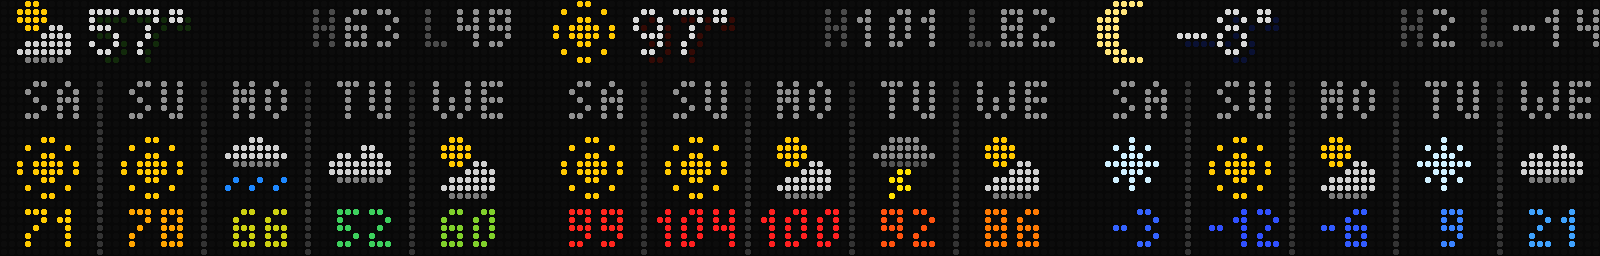
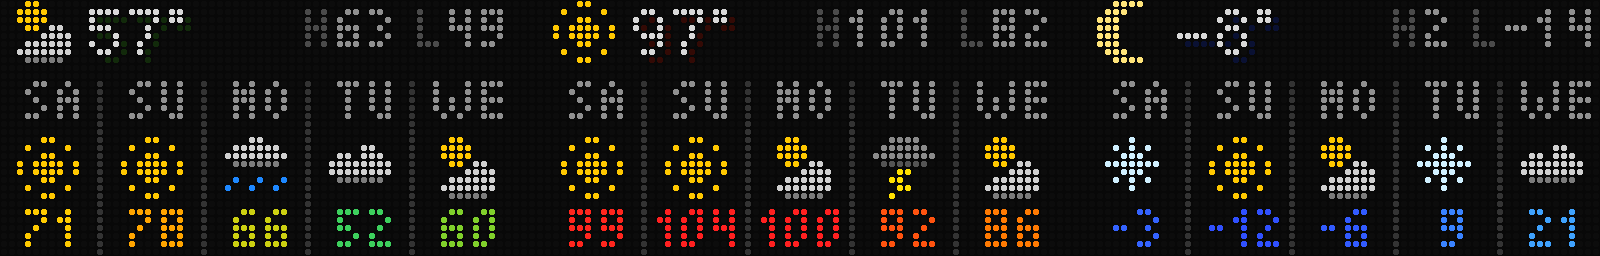
Board: 5-day high/low right-aligned to x62
A 1px right margin to match the icon's at x1.

Claude-Session: https://claude.ai/code/session_01A3rhig7LG9zSFWymE8NacA

Changed region(s): [[0.5, 0.0312, 0.6562, 0.1875], [0.1875, 0.0312, 0.3438, 0.1875], [0.875, 0.0312, 1.0, 0.1875]]

diff --git a/server/board/draw.js b/server/board/draw.js
@@ -756,7 +756,8 @@
     // ---- 5-day layout (wxView '5day'; mockup docs/board/mockups/weather/5day-final) ----
     // The weather screen without rain when wx carries `days`. Today on rows
     // 0-7: the icon at x1, the temperature at x11 (5x7, label white, small
-    // degree sign, 1px temperature-colored shadow), `H63 L49` right-aligned
+    // degree sign, 1px temperature-colored shadow), `H63 L49` right-aligned to
+    // x62 (a 1px margin, like the icon's)
     // (letters dim, numbers grey). Below, five 13px day columns split by
     // dividers on rows 10-31:
     // weekday (rows 11-15), icon (17-24), and the high in its temperature
@@ -764,6 +765,7 @@
     const FD_LETTER = '#4a4a4a', FD_NUM = C.grey;
     const FD_PITCH = 13;
     const FD_ICON_X = 1;
+    const FD_HL_RIGHT = 62;
     const FD_TEMP_X = FD_ICON_X + 10;   // after the 8px icon and a 2px gap, as on the weather row
     // A day's high, centered at cx. Three characters (100+, -10 and below)
     // are 11px in Tom Thumb against 12px between dividers, so they draw
@@ -791,7 +793,7 @@
       const x = f.text('5x7', String(wx.temp), FD_TEMP_X, 7, C.label);
       f.text('small', '°', x, 6, C.label);
       if (wx.hi != null && wx.lo != null) {
-        let hx = 63 - measure('small', `H${wx.hi} L${wx.lo}`) + 1;
+        let hx = FD_HL_RIGHT - measure('small', `H${wx.hi} L${wx.lo}`) + 1;
         hx = f.text('small', 'H', hx, 6, FD_LETTER);
         hx = f.text('small', String(wx.hi), hx, 6, FD_NUM);
         hx = f.text('small', ' L', hx, 6, FD_LETTER);

diff --git a/server/board/draw.test.js b/server/board/draw.test.js
@@ -511,7 +511,8 @@ test('weather 5-day: today on top, five day columns between dividers; a warning 
   assert.equal(count(f, '#000000', 0, 8, 63, 8), 64, 'row 8 clear');
   assert.ok(count(f, draw.C.grey, 34, 1, 63, 5) > 15, 'high/low numbers grey');
   assert.ok(count(f, '#4a4a4a', 34, 1, 63, 5) > 5, 'dim H/L letters');
-  assert.ok(count(f, draw.C.grey, 61, 1, 63, 5) > 0, 'right-aligned to x63');
+  assert.ok(count(f, draw.C.grey, 60, 1, 62, 5) > 0, 'right-aligned to x62');
+  for (let y = 0; y < 8; y++) assert.deepEqual(f.get(63, y), [0, 0, 0], `col 63 clear, row ${y}`);
   for (const x of [12, 25, 38, 51]) for (let y = 10; y <= 31; y++) assert.equal(hex(f.get(x, y)), draw.C.divider, `divider ${x},${y}`);
   assert.equal(count(f, draw.C.divider, 0, 0, 63, 9), 0, 'no horizontal rule');
   for (let i = 0; i < 5; i++) {

diff --git a/firmware/boardlib/draw.py b/firmware/boardlib/draw.py
@@ -957,6 +957,7 @@ FD_LETTER = hexc('#4a4a4a')
 FD_NUM = C['grey']
 FD_PITCH = 13
 FD_ICON_X = 1
+FD_HL_RIGHT = 62
 FD_TEMP_X = FD_ICON_X + 10
 
 
@@ -988,7 +989,7 @@ def draw_five_day(f, wx):
     x = f.text('5x7', str(wx['temp']), FD_TEMP_X, 7, C['label'])
     f.text('small', '°', x, 6, C['label'])
     if wx.get('hi') is not None and wx.get('lo') is not None:
-        hx = 63 - measure('small', 'H%s L%s' % (wx['hi'], wx['lo'])) + 1
+        hx = FD_HL_RIGHT - measure('small', 'H%s L%s' % (wx['hi'], wx['lo'])) + 1
         hx = f.text('small', 'H', hx, 6, FD_LETTER)
         hx = f.text('small', str(wx['hi']), hx, 6, FD_NUM)
         hx = f.text('small', ' L', hx, 6, FD_LETTER)

diff --git a/docs/board/contract.md b/docs/board/contract.md
@@ -230,7 +230,7 @@ From Open-Meteo (`server/board/weather.js`; fixture `fixtures/open-meteo/`), at 
 - **Warning or watch:** replaces the whole rows 26–30 line: glyph (bolt or funnel) at x0, 3px gap, `TSTORM WATCH`, `TSTORM WARNING`, `TORNADO WATCH`, or `TORNADO WARN` (`TORNADO WARNING` doesn't fit), in the warning colors; a tornado warning blinks.
 
 **5-day layout** (`wx.days` present and no `warn`; with a warning or watch the board draws the conditions layout above, which has room for it; `drawFiveDay()` in `draw.js`, `draw_five_day()` in `draw.py`; preview `previews/mock-weather-5day.png`):
-- Today on rows 0–7: the `icon` at x1, y0; `temp` in X11 5x7 at x11 (a 2px gap after the icon), baseline 7, label white, then a Tom Thumb `°` (baseline 6), over a shadow of both drawn 1px right and 1px down in the temperature color (`TEMP_STOPS` blend below) at 20%; `H63 L49` (Tom Thumb, baseline 6) right-aligned to x63, the letters `#4a4a4a` and the numbers grey `#8f8f8f`.
+- Today on rows 0–7: the `icon` at x1, y0; `temp` in X11 5x7 at x11 (a 2px gap after the icon), baseline 7, label white, then a Tom Thumb `°` (baseline 6), over a shadow of both drawn 1px right and 1px down in the temperature color (`TEMP_STOPS` blend below) at 20%; `H63 L49` (Tom Thumb, baseline 6) right-aligned to x62 (a 1px margin, like the icon's), the letters `#4a4a4a` and the numbers grey `#8f8f8f`.
 - Five 13px day columns, centers x6, 19, 32, 45, 58, split by `#333333` dividers on cols 12, 25, 38, 51 (rows 10–31). Per column: `d` grey centered (baseline 15), the day's icon at center − 4, y17, and `hi` centered (baseline 31) in its temperature color (the `TEMP_STOPS` blend, blue −10°F to red 100°F). Three-character highs (100+, −10 and below) draw tight to keep a pixel off the dividers: `1` advances 3 and the minus is a 2px bar (row 28); every negative high uses that minus. Fewer than five days leave the right columns empty.
 
 When `on` is false, `frames` and `ft` are empty and `timeBox` may be `null`.
